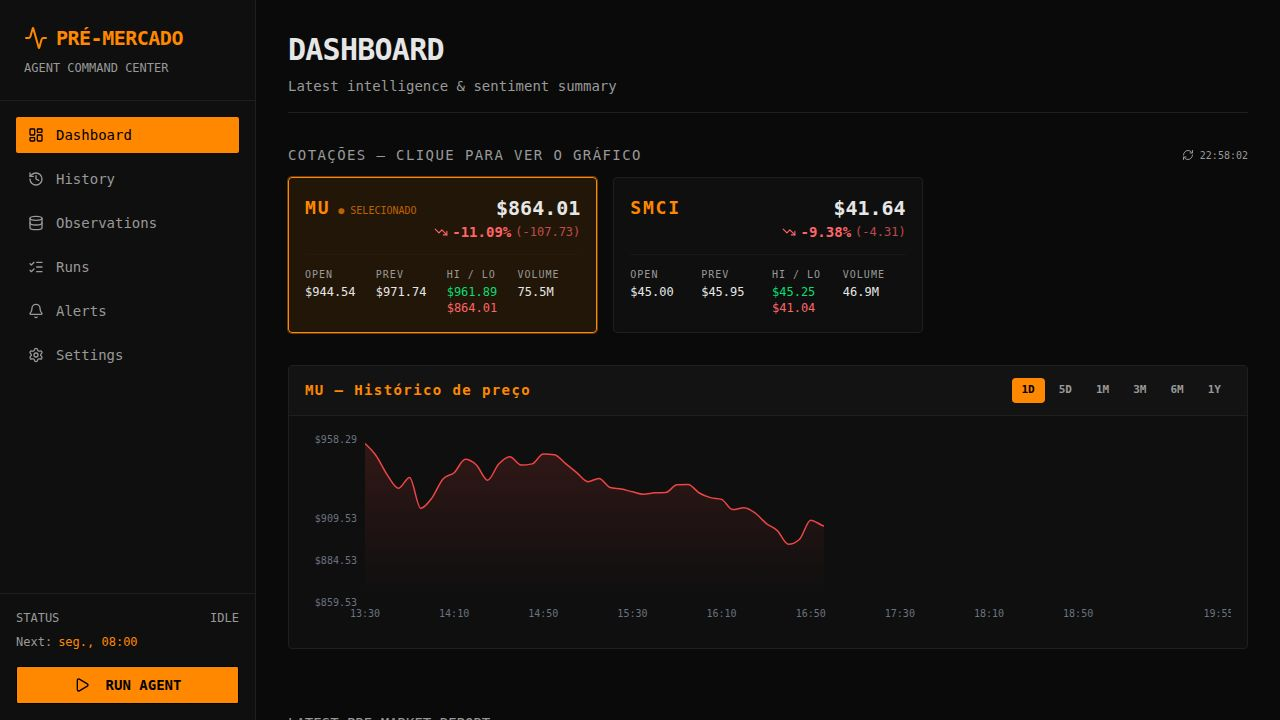
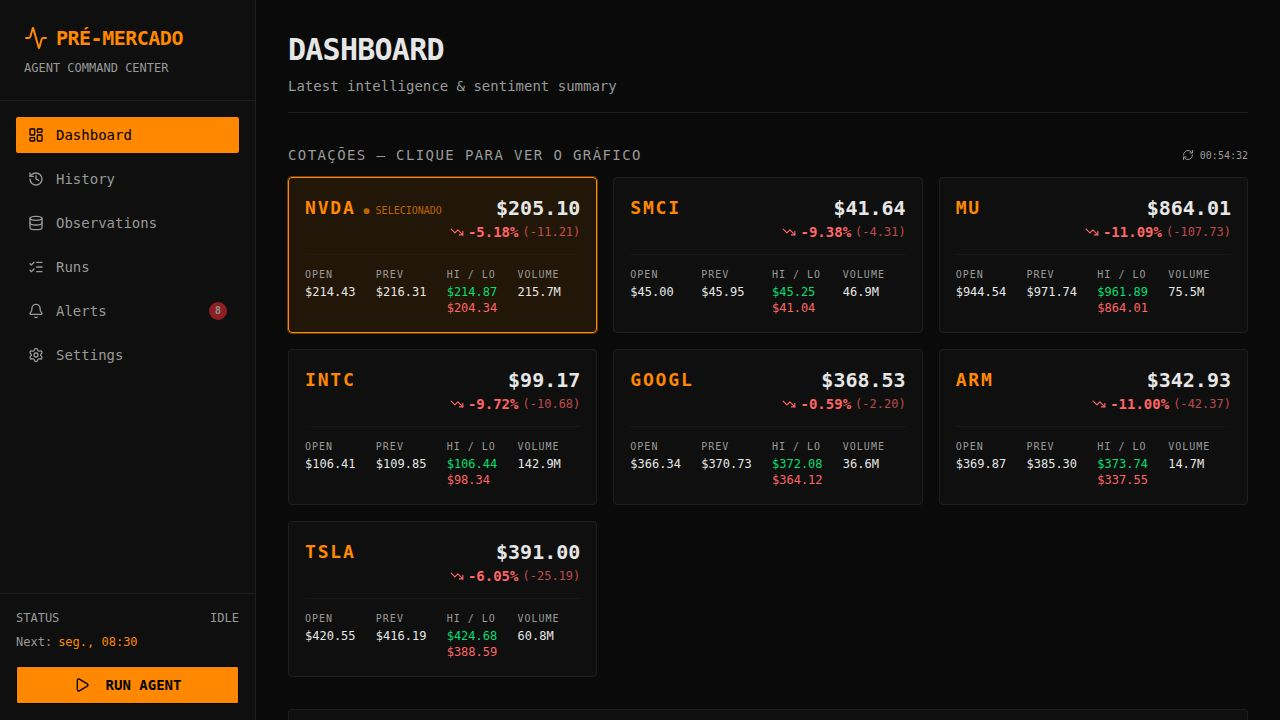
Add support for monitoring multiple stock tickers and improve agent robustness
Enhance the agent's functionality by allowing configuration of multiple stock tickers through settings, normalizing ticker inputs, and improving the agent's execution robustness with error handling and deterministic run ID generation.

Replit-Commit-Author: Agent
Replit-Commit-Session-Id: d6821841-93f8-4552-8cfe-924c3f233819
Replit-Commit-Checkpoint-Type: full_checkpoint
Replit-Commit-Event-Id: a34535c8-002a-4308-a84b-66a1c5ee7634
Replit-Commit-Screenshot-Url: https://storage.googleapis.com/screenshot-production-us-central1/c52716f8-bb6e-48c4-bb91-2bf6519dc7eb/d6821841-93f8-4552-8cfe-924c3f233819/kXDSIhs
Replit-Helium-Checkpoint-Created: true

diff --git a/artifacts/api-server/src/lib/runner.ts b/artifacts/api-server/src/lib/runner.ts
@@ -5,9 +5,21 @@
 import { spawn } from "child_process";
 import path from "path";
 import { eq } from "drizzle-orm";
-import { db, reportsTable, agentRunsTable } from "@workspace/db";
+import { db, reportsTable, agentRunsTable, settingsTable } from "@workspace/db";
 import { logger } from "./logger";
 import { sendReportEmail } from "./mailer";
+
+const DEFAULT_TICKERS = ["NVDA", "SMCI", "MU", "INTC", "GOOGL", "ARM", "TSLA"];
+
+async function getMonitoredTickers(): Promise<string[]> {
+  try {
+    const [settings] = await db.select().from(settingsTable).limit(1);
+    if (settings && settings.tickers.length > 0) return settings.tickers;
+  } catch (err) {
+    logger.error({ err }, "Failed to read tickers from settings; using defaults");
+  }
+  return DEFAULT_TICKERS;
+}
 
 const workspaceRoot = process.cwd().endsWith(
   path.join("artifacts", "api-server"),
@@ -46,12 +58,20 @@ export function runAgent(trigger: "manual" | "scheduled" = "manual"): void {
   const startedAt = new Date();
   let runId: number | null = null;
 
-  // Insert run record immediately
-  db.insert(agentRunsTable)
-    .values({ status: "running", trigger, startedAt })
-    .returning()
-    .then(([row]) => { runId = row.id; })
-    .catch((err) => logger.error({ err }, "Failed to insert agent run record"));
+  void (async () => {
+  try {
+  const tickers = await getMonitoredTickers();
+
+  // Insert run record (awaited so runId is set deterministically before the process can close)
+  try {
+    const [row] = await db
+      .insert(agentRunsTable)
+      .values({ status: "running", trigger, startedAt })
+      .returning();
+    runId = row.id;
+  } catch (err) {
+    logger.error({ err }, "Failed to insert agent run record");
+  }
 
   const apiUrl = `http://localhost:${process.env.PORT ?? 5000}`;
 
@@ -61,6 +81,7 @@ export function runAgent(trigger: "manual" | "scheduled" = "manual"): void {
       ...process.env,
       INTERNAL_API_URL: apiUrl,
       PYTHONPATH: agentDir,
+      AGENT_TICKERS: tickers.join(","),
     },
   });
 
@@ -79,6 +100,12 @@ export function runAgent(trigger: "manual" | "scheduled" = "manual"): void {
   py.stderr.on("data", (data: Buffer) => {
     errorOutput += data.toString();
     logger.warn({ stderr: data.toString() }, "Agent stderr");
+  });
+
+  py.on("error", (err) => {
+    logger.error({ err }, "Failed to spawn agent process");
+    state.running = false;
+    state.currentStep = null;
   });
 
   py.on("close", async (code) => {
@@ -122,7 +149,7 @@ export function runAgent(trigger: "manual" | "scheduled" = "manual"): void {
       await db.insert(reportsTable).values({
         date: today,
         content,
-        tickers: ["MU", "SMCI"],
+        tickers,
       });
       logger.info("Report saved to database");
     } catch (err) {
@@ -139,7 +166,13 @@ export function runAgent(trigger: "manual" | "scheduled" = "manual"): void {
     }
 
     // Send e-mail notification
-    await sendReportEmail(content, today);
+    await sendReportEmail(content, today, tickers);
   });
+  } catch (err) {
+    logger.error({ err }, "Unexpected error while running agent");
+    state.running = false;
+    state.currentStep = null;
+  }
+  })();
 }
 

diff --git a/artifacts/premarket/src/pages/observations.tsx b/artifacts/premarket/src/pages/observations.tsx
@@ -1,6 +1,8 @@
 import { 
   useListObservations, 
-  getListObservationsQueryKey 
+  getListObservationsQueryKey,
+  useGetSettings,
+  getGetSettingsQueryKey,
 } from "@workspace/api-client-react";
 import { Card, CardContent } from "@/components/ui/card";
 import { formatDateTime } from "@/lib/format";
@@ -12,6 +14,9 @@ import { Button } from "@/components/ui/button";
 
 export default function Observations() {
   const [tickerFilter, setTickerFilter] = useState<string | undefined>(undefined);
+
+  const { data: settings } = useGetSettings({ query: { queryKey: getGetSettingsQueryKey() } });
+  const tickers = settings?.tickers ?? [];
 
   const { data: observations, isLoading } = useListObservations({ ticker: tickerFilter, limit: 100 }, {
     query: {
@@ -34,20 +39,16 @@ export default function Observations() {
           >
             ALL
           </Button>
-          <Button 
-            variant={tickerFilter === "MU" ? "default" : "outline"} 
-            className="font-mono text-xs rounded-sm h-8"
-            onClick={() => setTickerFilter("MU")}
-          >
-            MU
-          </Button>
-          <Button 
-            variant={tickerFilter === "SMCI" ? "default" : "outline"} 
-            className="font-mono text-xs rounded-sm h-8"
-            onClick={() => setTickerFilter("SMCI")}
-          >
-            SMCI
-          </Button>
+          {tickers.map((t) => (
+            <Button
+              key={t}
+              variant={tickerFilter === t ? "default" : "outline"}
+              className="font-mono text-xs rounded-sm h-8"
+              onClick={() => setTickerFilter(t)}
+            >
+              {t}
+            </Button>
+          ))}
         </div>
       </div>
 

diff --git a/artifacts/api-server/src/routes/settings.ts b/artifacts/api-server/src/routes/settings.ts
@@ -12,7 +12,7 @@ async function getOrCreateSettings() {
   const notifyEmail = process.env.NOTIFY_EMAIL ?? "";
   const [created] = await db
     .insert(settingsTable)
-    .values({ notifyEmail, scheduleEnabled: true, scheduleHour: 8, scheduleMinute: 30, tickers: ["MU", "SMCI"] })
+    .values({ notifyEmail, scheduleEnabled: true, scheduleHour: 8, scheduleMinute: 30, tickers: ["NVDA", "SMCI", "MU", "INTC", "GOOGL", "ARM", "TSLA"] })
     .returning();
   return created;
 }
@@ -33,9 +33,13 @@ router.patch("/settings", async (req, res): Promise<void> => {
     return;
   }
   const existing = await getOrCreateSettings();
+  const data = { ...parsed.data };
+  if (data.tickers) {
+    data.tickers = [...new Set(data.tickers.map((t) => t.trim().toUpperCase()).filter(Boolean))];
+  }
   const [updated] = await db
     .update(settingsTable)
-    .set({ ...parsed.data, updatedAt: new Date() })
+    .set({ ...data, updatedAt: new Date() })
     .where(eq(settingsTable.id, existing.id))
     .returning();
   applySettings(updated);

diff --git a/artifacts/api-server/src/lib/mailer.ts b/artifacts/api-server/src/lib/mailer.ts
@@ -77,7 +77,7 @@ export async function sendAlertEmail(opts: {
   }
 }
 
-export async function sendReportEmail(reportContent: string, date: string): Promise<void> {
+export async function sendReportEmail(reportContent: string, date: string, tickers?: string[]): Promise<void> {
   const to = await resolveNotifyEmail();
   if (!to) {
     logger.warn("No notify email configured — skipping e-mail notification");
@@ -88,7 +88,7 @@ export async function sendReportEmail(reportContent: string, date: string): Prom
     return;
   }
 
-  const subject = `Pré-Mercado ${date} — MU & SMCI`;
+  const subject = `Pré-Mercado ${date}${tickers && tickers.length ? ` — ${tickers.join(", ")}` : ""}`;
 
   const htmlBody = reportContent
     .replace(/&/g, "&amp;")

diff --git a/artifacts/premarket/src/pages/settings.tsx b/artifacts/premarket/src/pages/settings.tsx
@@ -226,7 +226,7 @@ export default function Settings() {
       scheduleEnabled: true,
       scheduleHour: 8,
       scheduleMinute: 30,
-      tickers: ["MU", "SMCI"],
+      tickers: ["NVDA", "SMCI", "MU", "INTC", "GOOGL", "ARM", "TSLA"],
     },
   });
 

diff --git a/lib/db/src/schema/premarket.ts b/lib/db/src/schema/premarket.ts
@@ -46,7 +46,7 @@ export const settingsTable = pgTable("settings", {
   scheduleEnabled: boolean("schedule_enabled").notNull().default(true),
   scheduleHour: integer("schedule_hour").notNull().default(8),
   scheduleMinute: integer("schedule_minute").notNull().default(30),
-  tickers: text("tickers").array().notNull().default(["MU", "SMCI"]),
+  tickers: text("tickers").array().notNull().default(["NVDA", "SMCI", "MU", "INTC", "GOOGL", "ARM", "TSLA"]),
   updatedAt: timestamp("updated_at").defaultNow().notNull(),
 });
 

diff --git a/artifacts/api-server/src/agent/config.py b/artifacts/api-server/src/agent/config.py
@@ -1,4 +1,12 @@
-TICKERS = ["MU", "SMCI"]
+import os
+
+# Tickers sob cobertura. A fonte da verdade é a tabela `settings` no banco;
+# o runner Node passa a lista atual via env var AGENT_TICKERS (CSV). Quando
+# rodado fora desse contexto, cai no default abaixo.
+_DEFAULT_TICKERS = ["NVDA", "SMCI", "MU", "INTC", "GOOGL", "ARM", "TSLA"]
+_env_tickers = os.environ.get("AGENT_TICKERS", "")
+TICKERS = [t.strip().upper() for t in _env_tickers.split(",") if t.strip()] or _DEFAULT_TICKERS
+
 MODEL = "claude-opus-4-5"
 MAX_TOKENS = 4096
 MAX_AGENT_TURNS = 20

diff --git a/artifacts/api-server/src/agent/tools.py b/artifacts/api-server/src/agent/tools.py
@@ -74,7 +74,12 @@ EDGAR_HEADERS = {
 
 TICKER_TO_CIK = {
     "MU": "0000723125",
-    "SMCI": "0000310158",
+    "SMCI": "0001375365",
+    "NVDA": "0001045810",
+    "INTC": "0000050863",
+    "GOOGL": "0001652044",
+    "ARM": "0001973239",
+    "TSLA": "0001318605",
 }
 
 

diff --git a/.agents/memory/ticker-source-of-truth.md b/.agents/memory/ticker-source-of-truth.md
@@ -1,0 +1,18 @@
+---
+name: Tickers — fonte da verdade
+description: Decisão de onde vem a lista de ativos monitorados pelo agente
+---
+
+# Lista de tickers monitorados: settings DB é a fonte da verdade
+
+A tabela `settings.tickers` (Postgres) é a fonte única da lista de ativos. O
+runner Node lê essa lista e a repassa ao subprocess Python; cotações e relatório
+salvo usam a mesma lista.
+
+**Why:** antes havia descompasso — o agente lia uma constante hardcoded e
+ignorava a UI de Settings, então adicionar tickers pela tela não tinha efeito.
+
+**How to apply:** para mudar a cobertura de ativos, altere `settings.tickers`
+(UI ou UPDATE no DB) — nunca volte a hardcodear tickers. Novos tickers que usam
+EDGAR exigem o CIK oficial (a SMCI já esteve com CIK errado); confira em
+https://www.sec.gov/files/company_tickers.json.

diff --git a/.agents/memory/MEMORY.md b/.agents/memory/MEMORY.md
@@ -1,1 +1,2 @@
 - [Drizzle Date → Zod](drizzle-zod-dates.md) — convert timestamp columns with .toISOString() before *Response.parse() in Express routes, else HTTP 500
+- [Tickers source of truth](ticker-source-of-truth.md) — settings.tickers (DB) é a fonte; runner passa via env AGENT_TICKERS p/ Python; EDGAR exige CIK oficial em TICKER_TO_CIK